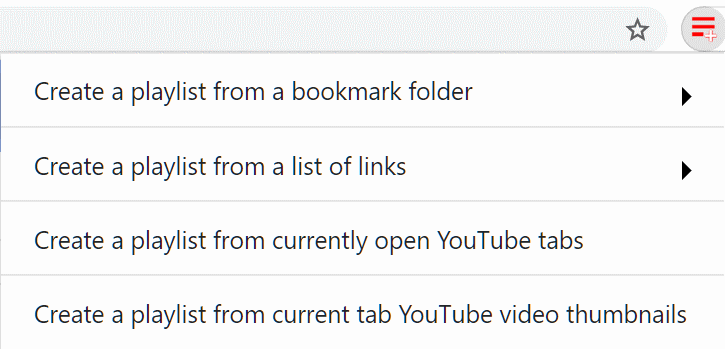
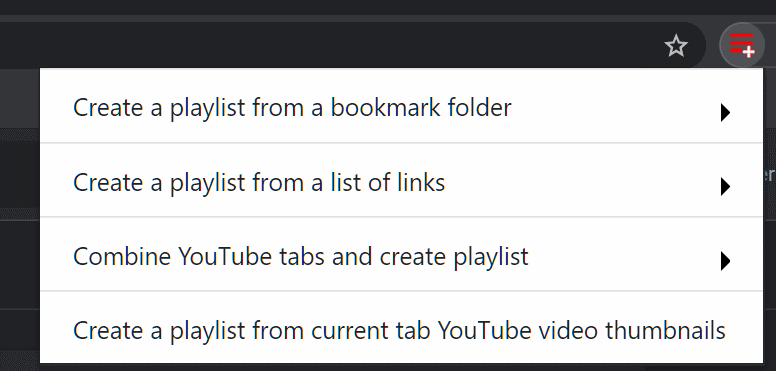
v1.5.0: Combine Youtube tabs and playlists, optionnaly close tabs after creating playlists

diff --git a/README.md b/README.md
@@ -13,6 +13,10 @@ A YouTube playlist creator for [Firefox](https://addons.mozilla.org/en-US/firefo
 
   ![create-playlist-from-url-list](https://raw.githubusercontent.com/soufianesakhi/youtube-playlist-helper/master/screenshots/create-playlist-from-url-list.png)
 
+- Combine YouTube tabs and create playlist
+
+  ![combine-youtube-tabs](https://raw.githubusercontent.com/soufianesakhi/youtube-playlist-helper/master/screenshots/combine-youtube-tabs.png)
+
 - Create a playlist from current tab YouTube video thumbnails
 
   ![create-playlist-from-youtube-thumbnails](https://raw.githubusercontent.com/soufianesakhi/youtube-playlist-helper/master/screenshots/create-playlist-from-youtube-thumbnails.png)
